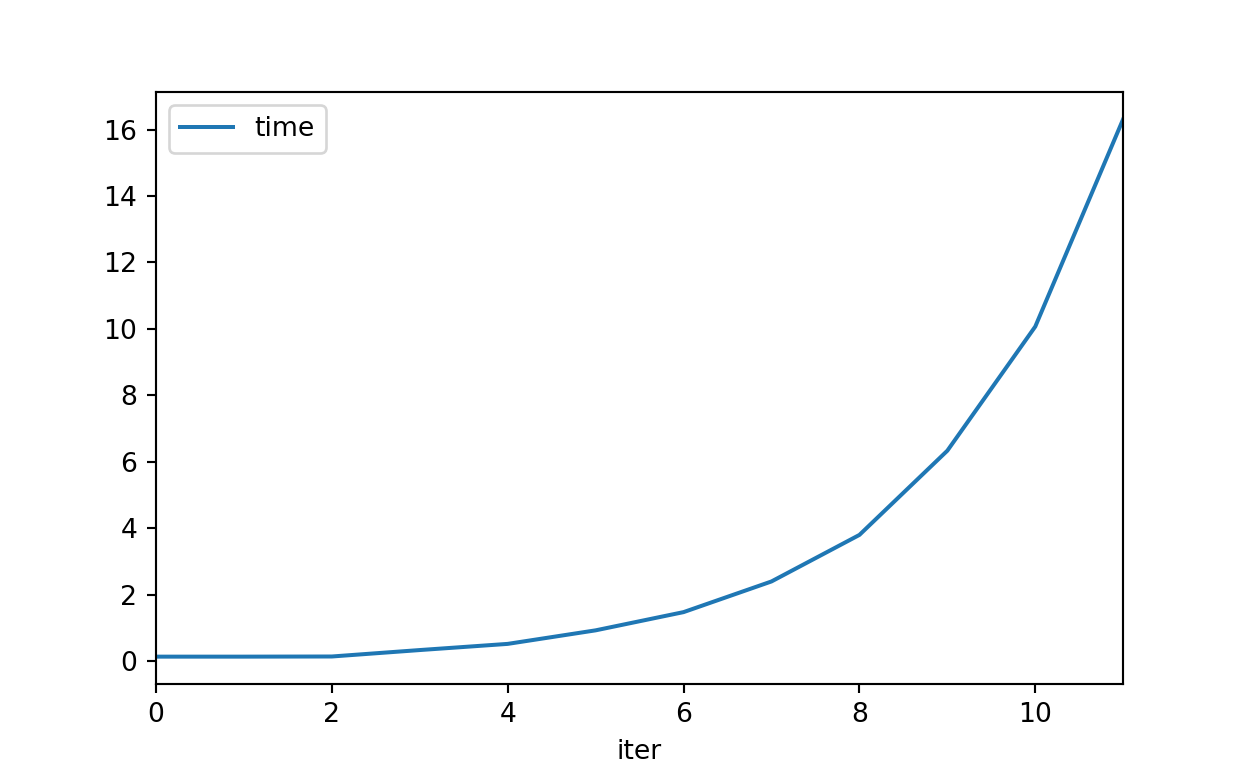
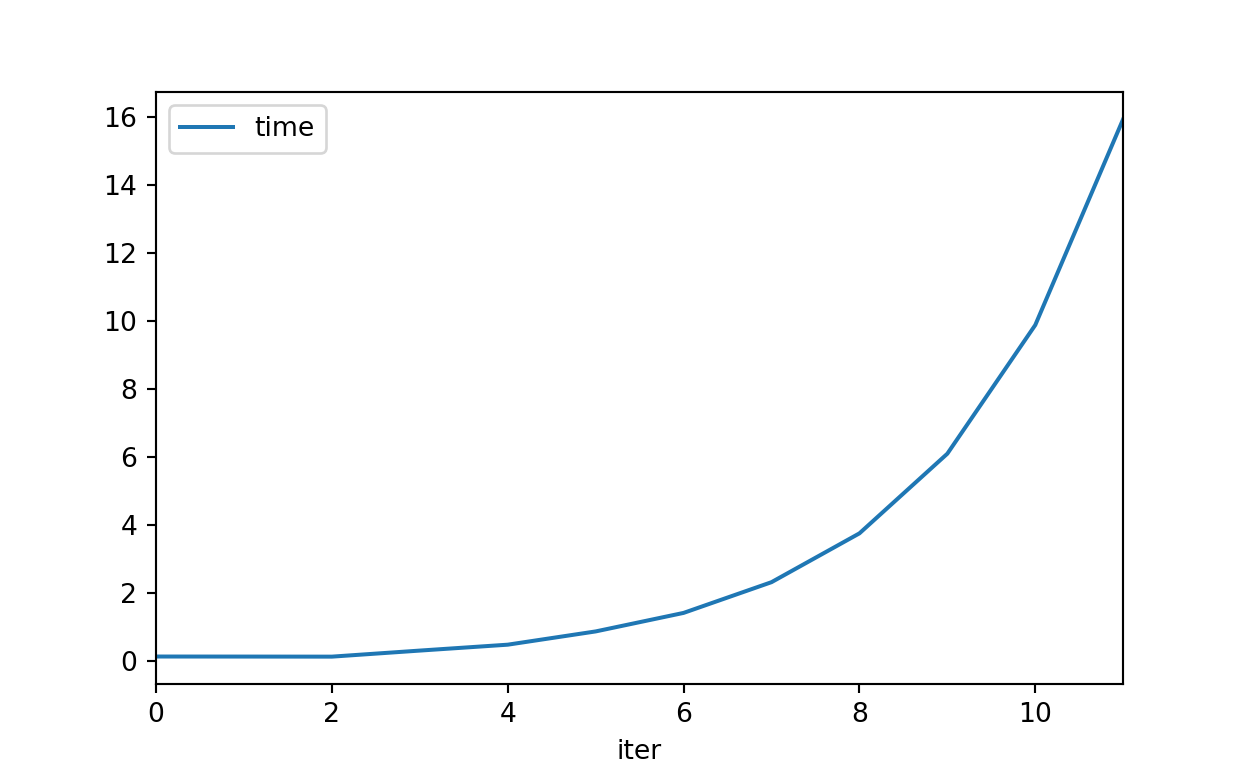
commit

diff --git a/python/_posts/2019-08-22-complejidad-computacional/complejidad-computacional.html b/python/_posts/2019-08-22-complejidad-computacional/complejidad-computacional.html
@@ -1024,13 +1024,13 @@ sum_recursiva(5)</code></pre>
 <pre class="python"><code>
 timeit.timeit(lambda: sum_iterativa(5))</code></pre>
 <pre><code>
-0.5107870101928711</code></pre>
+0.4755520820617676</code></pre>
 </div>
 <div class="layout-chunk" data-layout="l-body">
 <pre class="python"><code>
 timeit.timeit(lambda: sum_recursiva(5))</code></pre>
 <pre><code>
-0.6511838436126709</code></pre>
+0.6174628734588623</code></pre>
 </div>
 <p>A partir de lo anterior se aprecia que así es.</p>
 <h2 id="modulo-timeit">Módulo timeit</h2>
@@ -1043,6 +1043,7 @@ timeit.timeit(lambda: sum_recursiva(5))</code></pre>
 <p>En las secciones siguientes los ejemplos usan <code>timeit</code>.</p>
 <h2 id="la-anotacion-big-o">La Anotación Big O</h2>
 <p>Se usa la notación <span class="math inline">\(\mathcal{O}\)</span> para cotas superiores asintóticas, debido que va a acotar el crecimiento del tiempo de la ejecución del algoritmo por arriba para iteraciones suficientemente grandes. Lo anterior, quiere decir que si tenenemos una algoritmo que tiene un tiempo de complejidad lineal <span class="math inline">\(\mathcal{O(n)}\)</span> como es el caso de la <em>busqueda lineal</em>, no siempre se ejecutará siguiendo <span class="math inline">\(\mathcal{O(n)}\)</span> o nunca va a ser peor que <span class="math inline">\(\mathcal{O(n)}\)</span>.</p>
+<div class="l-body-outset">
 <table>
 <thead>
 <tr class="header">
@@ -1073,6 +1074,7 @@ timeit.timeit(lambda: sum_recursiva(5))</code></pre>
 </tr>
 </tbody>
 </table>
+</div>
 <!-- ![](https://www.techtud.com/sites/default/files/public/user_files/tud39880/linearSearch%20vs%20binary%20search%20diagram_0.jpg) -->
 <h1 id="complejidad-de-tiempo">Complejidad de Tiempo</h1>
 <p>Para enteder la complejidad de tiempo, se explicarán dos algorítmos:</p>
@@ -1119,6 +1121,7 @@ resultadoA.plot(x=&#39;iter&#39;, y=&#39;time&#39;, kind=&#39;line&#39;)</code><
 <p>La secuencia de <strong>Fibonacci</strong> es una sucesión infinita de números naturales 0, 1, 1, 2, 3, 5, 8, 13, 21, 34, 55, 89, 144, <span class="math inline">\(\infty\)</span>, definida como: <span class="math display">\[
 x_n = x_{n-1} + x_{n-2}
 \]</span> Fibonacci es un muy buen ejemplo de una función iterativa y recursiva, debido que tiene distintos comportamiento en términos de complejidad computacional.</p>
+<div class="l-body-outset">
 <table>
 <thead>
 <tr class="header">
@@ -1140,6 +1143,7 @@ x_n = x_{n-1} + x_{n-2}
 </tr>
 </tbody>
 </table>
+</div>
 <p>A continuación se presenta la construcción del algorítmo, la función se va a definir como <code>fibo_rec</code>, debería esperarse que <code>fibo_rec(1) = 0</code>, <code>fibo_rec(2) = 1</code>, <code>fibo_rec(3) = 1</code> y así sucesivamente.</p>
 <div class="layout-chunk" data-layout="l-body">
 <pre class="python"><code>

diff --git a/python/_site/posts/2019-08-22-complejidad-computacional/index.html b/python/_site/posts/2019-08-22-complejidad-computacional/index.html
@@ -1524,13 +1524,13 @@ sum_recursiva(5)</code></pre>
 <pre class="python"><code>
 timeit.timeit(lambda: sum_iterativa(5))</code></pre>
 <pre><code>
-0.5107870101928711</code></pre>
+0.4755520820617676</code></pre>
 </div>
 <div class="layout-chunk" data-layout="l-body">
 <pre class="python"><code>
 timeit.timeit(lambda: sum_recursiva(5))</code></pre>
 <pre><code>
-0.6511838436126709</code></pre>
+0.6174628734588623</code></pre>
 </div>
 <p>A partir de lo anterior se aprecia que así es.</p>
 <h2 id="modulo-timeit">Módulo timeit</h2>
@@ -1543,6 +1543,7 @@ timeit.timeit(lambda: sum_recursiva(5))</code></pre>
 <p>En las secciones siguientes los ejemplos usan <code>timeit</code>.</p>
 <h2 id="la-anotacion-big-o">La Anotación Big O</h2>
 <p>Se usa la notación <span class="math inline">\(\mathcal{O}\)</span> para cotas superiores asintóticas, debido que va a acotar el crecimiento del tiempo de la ejecución del algoritmo por arriba para iteraciones suficientemente grandes. Lo anterior, quiere decir que si tenenemos una algoritmo que tiene un tiempo de complejidad lineal <span class="math inline">\(\mathcal{O(n)}\)</span> como es el caso de la <em>busqueda lineal</em>, no siempre se ejecutará siguiendo <span class="math inline">\(\mathcal{O(n)}\)</span> o nunca va a ser peor que <span class="math inline">\(\mathcal{O(n)}\)</span>.</p>
+<div class="l-body-outset">
 <table>
 <thead>
 <tr class="header">
@@ -1573,6 +1574,7 @@ timeit.timeit(lambda: sum_recursiva(5))</code></pre>
 </tr>
 </tbody>
 </table>
+</div>
 <!-- ![](https://www.techtud.com/sites/default/files/public/user_files/tud39880/linearSearch%20vs%20binary%20search%20diagram_0.jpg) -->
 <h1 id="complejidad-de-tiempo">Complejidad de Tiempo</h1>
 <p>Para enteder la complejidad de tiempo, se explicarán dos algorítmos:</p>
@@ -1619,6 +1621,7 @@ resultadoA.plot(x=&#39;iter&#39;, y=&#39;time&#39;, kind=&#39;line&#39;)</code><
 <p>La secuencia de <strong>Fibonacci</strong> es una sucesión infinita de números naturales 0, 1, 1, 2, 3, 5, 8, 13, 21, 34, 55, 89, 144, <span class="math inline">\(\infty\)</span>, definida como: <span class="math display">\[
 x_n = x_{n-1} + x_{n-2}
 \]</span> Fibonacci es un muy buen ejemplo de una función iterativa y recursiva, debido que tiene distintos comportamiento en términos de complejidad computacional.</p>
+<div class="l-body-outset">
 <table>
 <thead>
 <tr class="header">
@@ -1640,6 +1643,7 @@ x_n = x_{n-1} + x_{n-2}
 </tr>
 </tbody>
 </table>
+</div>
 <p>A continuación se presenta la construcción del algorítmo, la función se va a definir como <code>fibo_rec</code>, debería esperarse que <code>fibo_rec(1) = 0</code>, <code>fibo_rec(2) = 1</code>, <code>fibo_rec(3) = 1</code> y así sucesivamente.</p>
 <div class="layout-chunk" data-layout="l-body">
 <pre class="python"><code>
